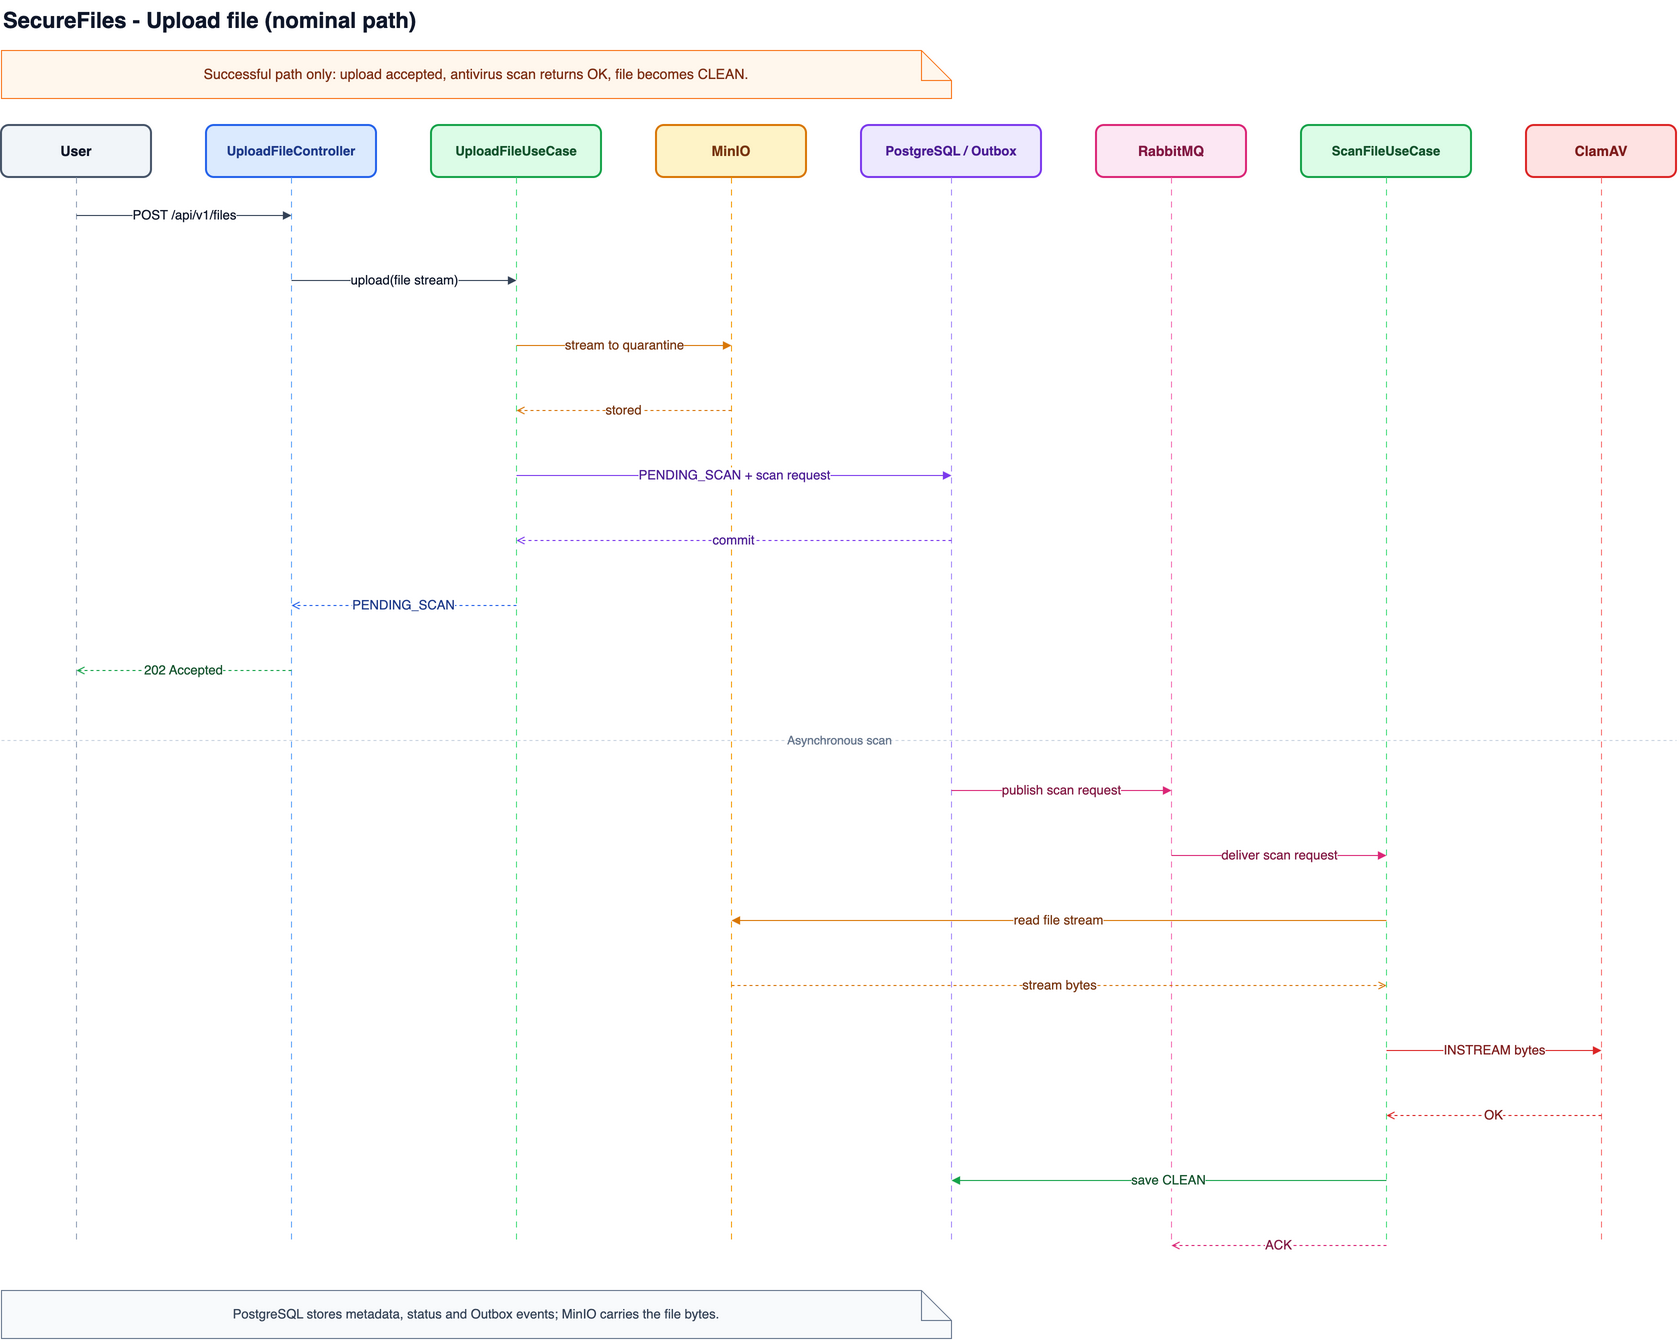
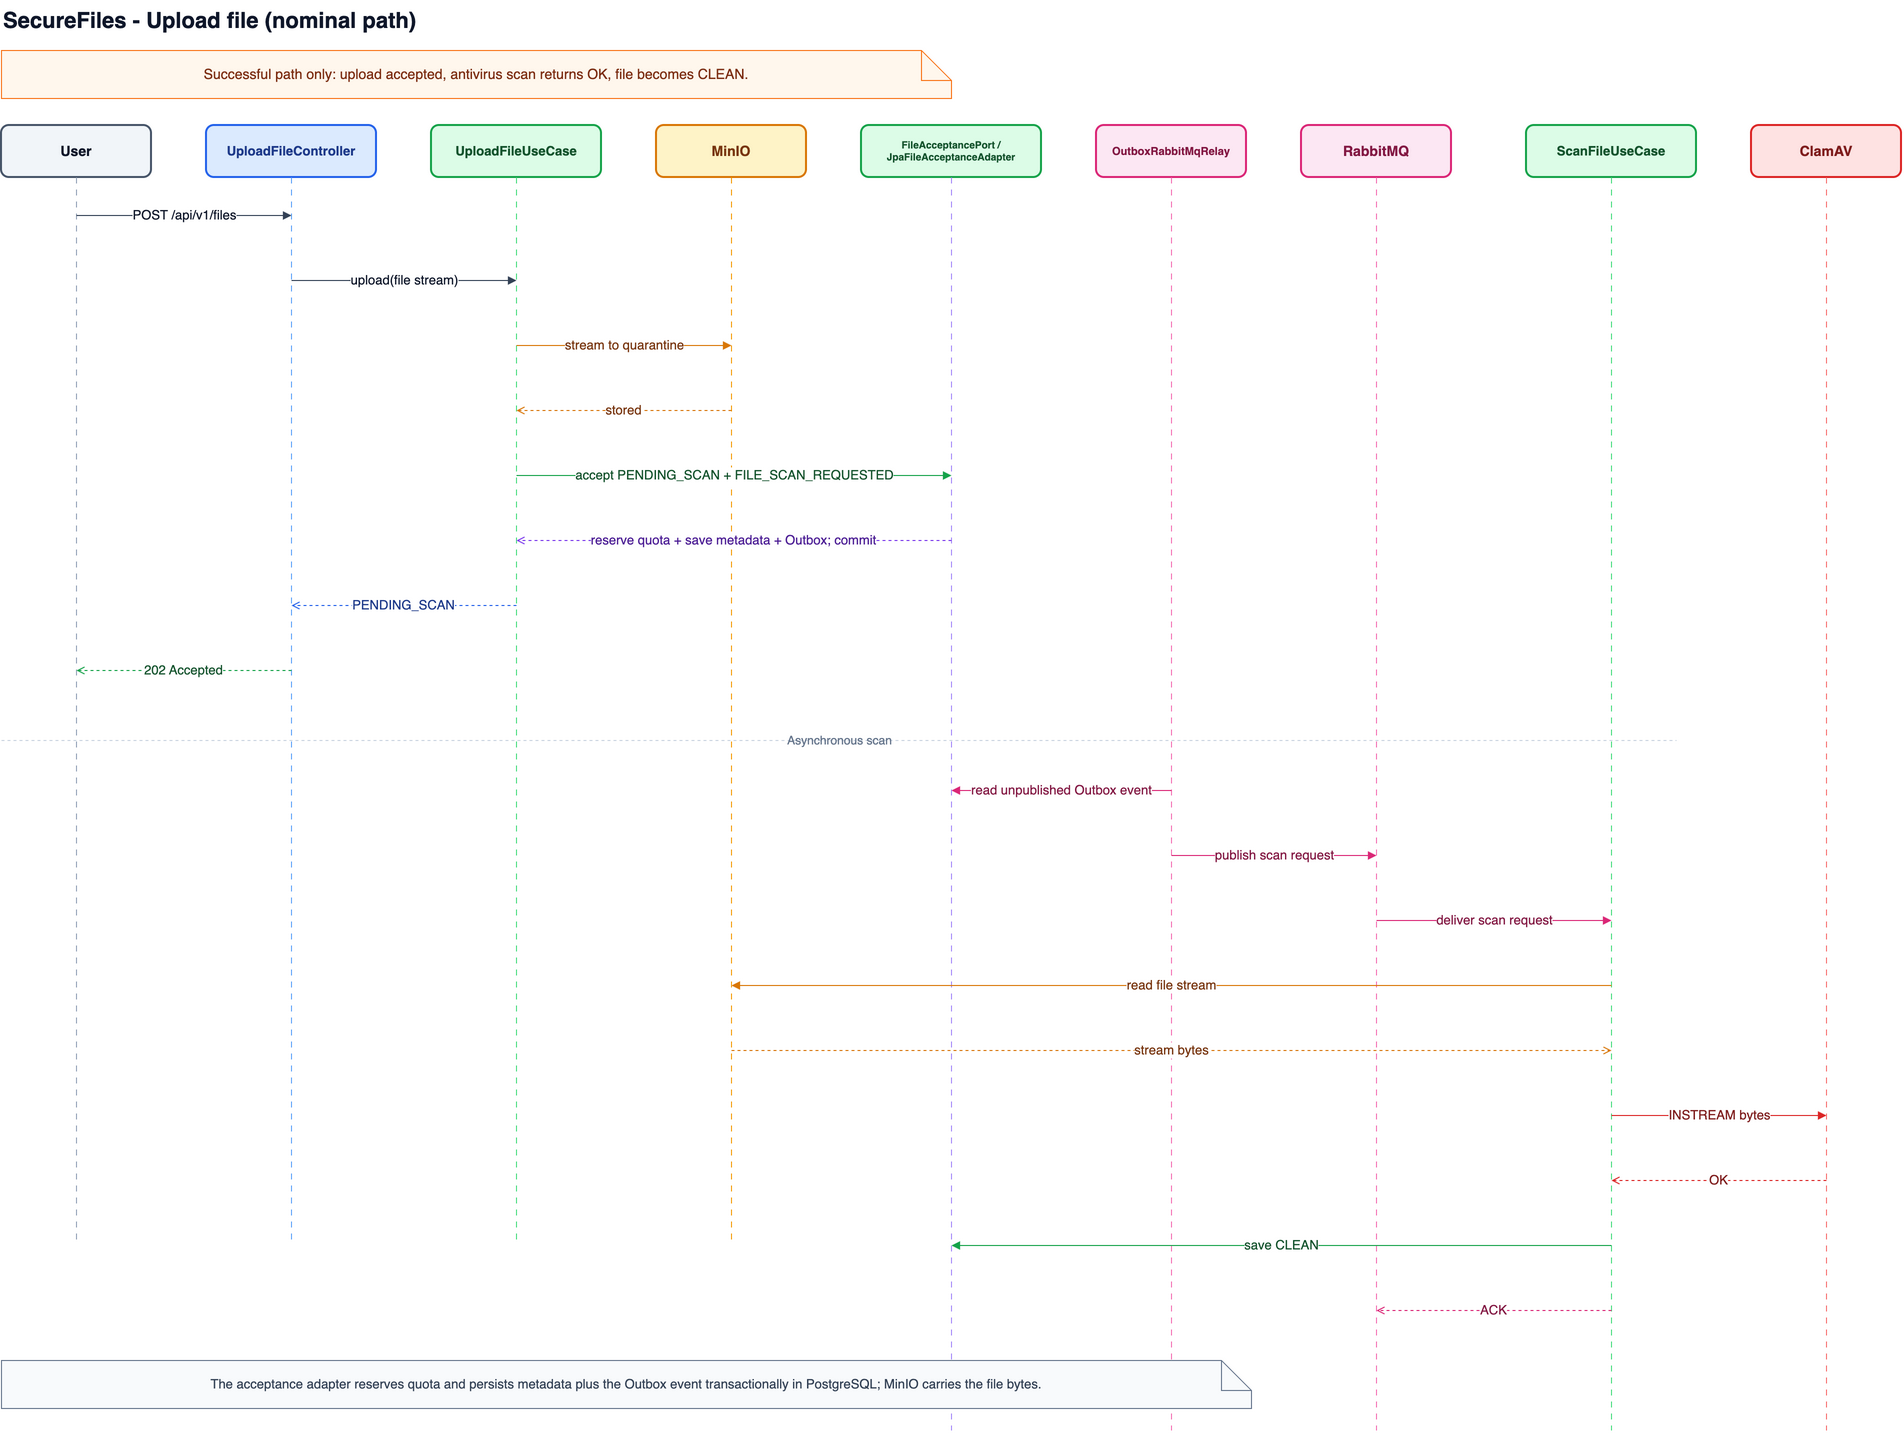
docs(diagrams): add secure upload and download sequences

diff --git a/README.md b/README.md
@@ -76,7 +76,8 @@ Les diagrammes editables sont des sources XML draw.io rangees par categorie. Cha
 | Sujet | Apercus PNG | Source editable |
 | --- | --- | --- |
 | SecureFiles architecture | [![SecureFiles architecture simplified](docs/diagrams/architecture/system/securefiles/renders/architecture-simplified.png)](docs/diagrams/architecture/system/securefiles/architecture-simplified.drawio) | [draw.io](docs/diagrams/architecture/system/securefiles/architecture-simplified.drawio) |
-| Upload secure file | [![Upload file sequence simplified](docs/diagrams/sequence/feature/file-upload/renders/upload-file-sequence-simplified.png)](docs/diagrams/sequence/feature/file-upload/upload-file-sequence-simplified.drawio) | [draw.io](docs/diagrams/sequence/feature/file-upload/upload-file-sequence-simplified.drawio) |
+| Upload secure file | [![Upload file sequence simplified](docs/diagrams/sequence/feature/file-upload/renders/upload-file-sequence-simplified.png)](docs/diagrams/sequence/feature/file-upload/upload-file-sequence-simplified.drawio) · [detailed PNG](docs/diagrams/sequence/feature/file-upload/renders/upload-file-sequence.png) | [simplified draw.io](docs/diagrams/sequence/feature/file-upload/upload-file-sequence-simplified.drawio) · [detailed draw.io](docs/diagrams/sequence/feature/file-upload/upload-file-sequence.drawio) |
+| Download secure file | [![Download file sequence simplified](docs/diagrams/sequence/feature/file-download/renders/download-file-sequence-simplified.png)](docs/diagrams/sequence/feature/file-download/download-file-sequence-simplified.drawio) · [detailed PNG](docs/diagrams/sequence/feature/file-download/renders/download-file-sequence.png) | [simplified draw.io](docs/diagrams/sequence/feature/file-download/download-file-sequence-simplified.drawio) · [detailed draw.io](docs/diagrams/sequence/feature/file-download/download-file-sequence.drawio) |
 | Upload use case | [![Upload use case simplified](docs/diagrams/use_case/feature/file-upload/renders/upload-file-simplified.png)](docs/diagrams/use_case/feature/file-upload/upload-file-simplified.drawio) | [draw.io](docs/diagrams/use_case/feature/file-upload/upload-file-simplified.drawio) |
 | Upload file states | [![Upload file states simplified](docs/diagrams/use_case/feature/file-upload/renders/upload-file-states-simplified.png)](docs/diagrams/use_case/feature/file-upload/upload-file-states-simplified.drawio) · [detailed PNG](docs/diagrams/use_case/feature/file-upload/renders/upload-file-states.png) | [simplified draw.io](docs/diagrams/use_case/feature/file-upload/upload-file-states-simplified.drawio) · [detailed draw.io](docs/diagrams/use_case/feature/file-upload/upload-file-states.drawio) |
 | RabbitMQ scan sequence | [![RabbitMQ scan sequence simplified](docs/diagrams/sequence/logic/rabbitmq-scan/renders/rabbitmq-scan-sequence-simplified.png)](docs/diagrams/sequence/logic/rabbitmq-scan/rabbitmq-scan-sequence-simplified.drawio) · [detailed PNG](docs/diagrams/sequence/logic/rabbitmq-scan/renders/rabbitmq-scan-sequence.png) | [simplified draw.io](docs/diagrams/sequence/logic/rabbitmq-scan/rabbitmq-scan-sequence-simplified.drawio) · [detailed draw.io](docs/diagrams/sequence/logic/rabbitmq-scan/rabbitmq-scan-sequence.drawio) |

diff --git a/resume.md b/resume.md
@@ -427,6 +427,13 @@ Prompt :
 go trois pr (j'ai déja fait un backup), le mcp est lancé
 Resultat : Le backup a ete preserve et les trois branches ont ete construites depuis `origin/main` sans ecraser les changements existants.
 - - - - -
+- - - - -
+Prompt :
+Follow instructions in #prompt:create-securefiles-diagrams.prompt.md with these arguments: Fait un diagrame , diagrame de sequence pour le use_case download.
+
+Et je pense que le diagramme upload secure file , et sequence du read me doit etre mis à jour
+Resultat : Paire de diagrammes natifs draw.io ajoutee pour le download, sequence upload mise a jour pour la reservation de quota et l'Outbox, et README reference les vues detaillee et simplifiee.
+- - - - -
 
 - - - - -
 Prompt :
